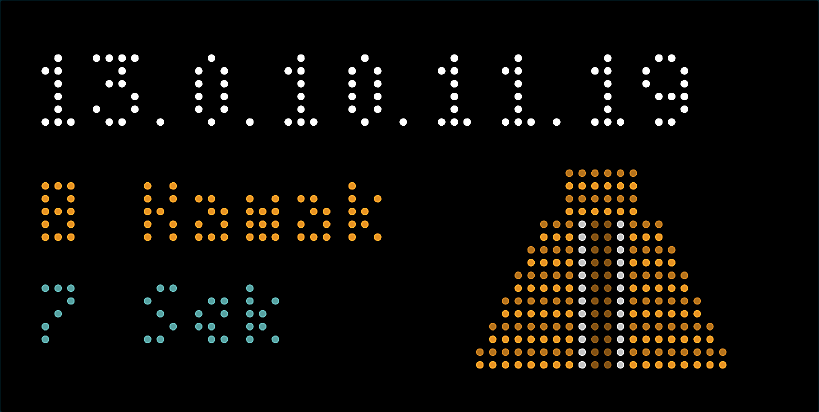
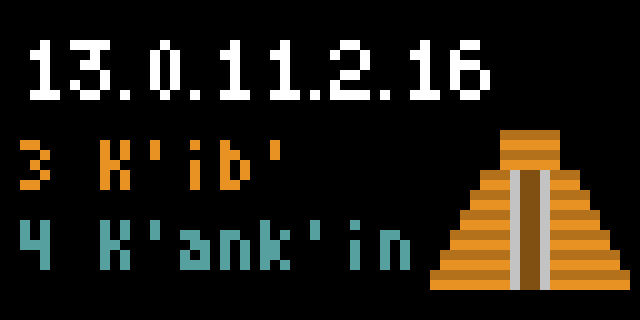
mayacalendar: Add correlation options; better app description; minor UI change (#2129)

diff --git a/apps/mayacalendar/README.md b/apps/mayacalendar/README.md
@@ -8,11 +8,11 @@ Displays today’s date in the calendar systems used by the ancient Maya civiliz
 
 The Maya calendar system consists of three calendars:
 
-1. **Long Count** — a continuous count of days since August 11, 3114 BCE (the Goodman-Martinez-Thompson correlation). The count is displayed in a *mostly* base-20 format as follows:
+1. **Long Count** — a continuous count of days since August 11, 3114 BCE (using the generally accepted Goodman-Martínez-Thompson correlation). The count is displayed in a *mostly* base-20 format as follows:
 
 * 1 day = 1 k’in
 * 20 k’in = 1 winal
-* 18 winal = 1 tun
+* **18** winal = 1 tun
 * 20 tun = 1 k’atun
 * 20 k’atun = 1 b’ak’tun
 
@@ -26,7 +26,11 @@ The transition of the Long Count from 12.19.19.17.19 to 13.0.0.0.0 (start of the
 
 The combination of Tzolk’in and Haab’ dates is called the **Calendar Round**, and repeats approximately every 52 years. The Calendar Round is still used today by some Maya communities in Guatemala.
 
-Names given for Tzolk’in days and Haab’ months are in the Yucatec language, in the standardized and revised orthography of the Guatemalan Academía de Lenguas Mayas. Other orthographies for Yucatec exist. The corresponding names in the Quiché language range from slightly to completely different from the Yucatec names.
+Names given for Tzolk’in days and Haab’ months are in the Yucatec Maya language, in the standardized and revised orthography of the Guatemalan *Academía de Lenguas Mayas*. Other orthographies for Yucatec Maya exist. The corresponding names in the Quiché language range from slightly different to completely different from the Yucatec Maya names.
+
+## What’s new
+
+**Version 1.1.0:** Added correlation options; minor display change; improved app description.
 
 ## Future improvements
 
@@ -41,4 +45,4 @@ A rich set of glyphs exists for the Tzolk’in day names and Haab’ month names
 
 ## About this app
 
-Version 1.0.0 (2023-06-26, 13.0.10.11.19 8 Kawak 7 Sek) by [Doug Ewell](http://ewellic.org)
+Version 1.1.0 (2023-12-20, 13.0.11.2.16  3 K’ib’ 4 K’ank’in) by [Doug Ewell](http://ewellic.org)
